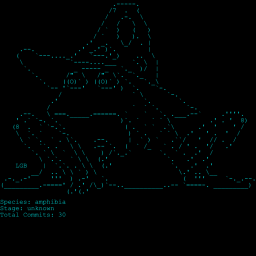
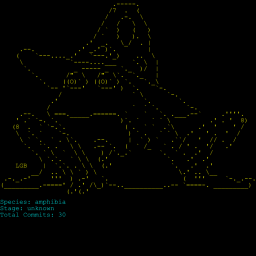
text now has its own color (fix)

diff --git a/README.md b/README.md
@@ -59,4 +59,4 @@ Tamagotchis are configured using a JSON file. Example: amphibia.json
 
 ![Tamagotchi](https://raw.githubusercontent.com/HectorH06/tamauijetto/main/tamauijetto/tamagotchi_HectorH06_Mapo_2025-01-01T00_00_00Z_amphibia.json_FFFF00_00FFFF_000000.png)
 
-![Tamagotchi](https://raw.githubusercontent.com/HectorH06/tamauijetto/main/tamauijetto/tamagotchi_HectorH06_Mapo_2025-01-01T00_00_00Z_amphibia.json_FFFF00_314131ff_5c7d5cff.png)
+![Tamagotchi](https://raw.githubusercontent.com/HectorH06/tamauijetto/main/tamauijetto/tamagotchi_HectorH06_Mapo_2025-01-01T00_00_00Z_amphibia.json_314131ff_314131ff_5c7d5cff.png)
